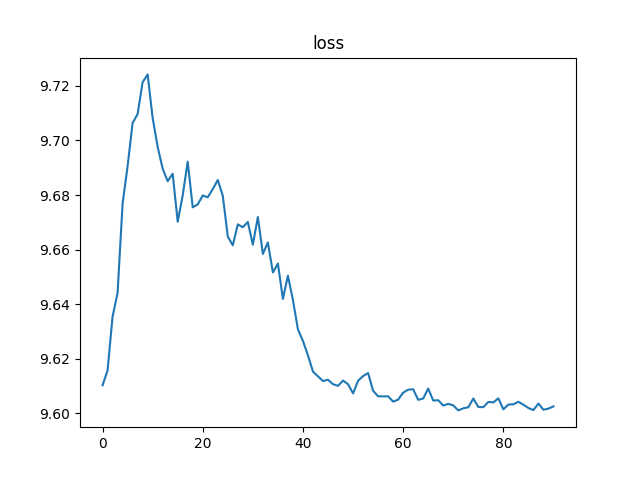
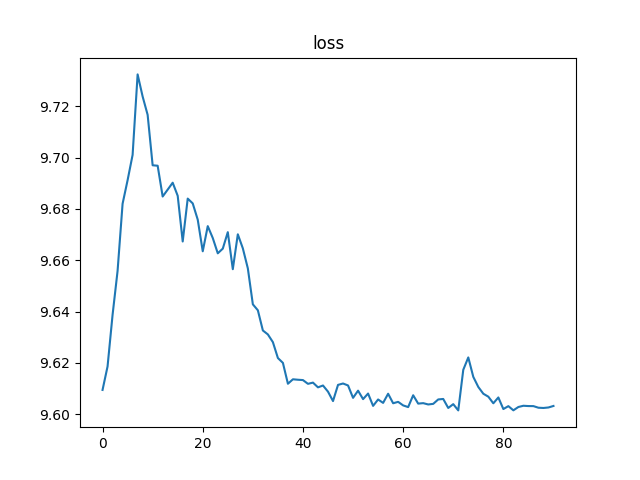
testing removed

diff --git a/runCIFAR.py b/runCIFAR.py
@@ -1,160 +1,164 @@
 #!/usr/bin/env python3
-# -*- coding: utf-8 -*-
-"""
-Created on Fri Mar  5 19:16:11 2021
+from SimCLR.Models import RingLossResNet
+from SimCLR.Loss import RingLoss
 
-@author: becca
-"""
+from tqdm import tqdm
 
 import torch
-import torchvision as tv
-from torchvision.transforms import transforms
-
-from SimCLR.Augment import TrainDataAugmentation, TuneDataAugmentation,\
-  SimCLRDataTransform, TuneDataTransform
-from SimCLR.Makers import Train, FineTune, Validate, SimCLR
-from SimCLR.Models import ResNetSimCLR
+import torch.nn as nn
+import torchvision
+import torchvision.transforms as transforms
+from torch.utils.data import  random_split
 
 import matplotlib.pyplot as plt
-from sklearn.metrics import confusion_matrix, ConfusionMatrixDisplay
+import numpy as np
+from sklearn.metrics import confusion_matrix, ConfusionMatrixDisplay, precision_recall_fscore_support
 
 
-def test_finetune():
-  # fine tuning transform
+device = 'cuda:0' if torch.cuda.is_available() else 'cpu'
+
+
+def get_data(batch_size=256):
   transform = transforms.Compose(
-    [transforms.ToTensor(), transforms.Normalize((.5,.5,.5),(.5,.5,.5))]
-  )
-  # dataset for finetuning
-  tuneset = tv.datasets.CIFAR10(
-    root='Data', train=True, download=True,
-    transform=transform
+    [
+      transforms.ToTensor(), 
+      transforms.Normalize((.5,.5,.5),(.5,.5,.5))
+    ]
   )
 
-  # make fine tuning object
-  simclr = FineTune(
-    mlp_layers=3, batch_size=10,
-    blocks_sizes=[2**i for i in [5,6,7,8]],
-    blocks_layers=[2,2,2,2]
+  trainset = torchvision.datasets.CIFAR10(
+    root='Data', train=True, download=True, transform=transform
+  )
+  trainloader = torch.utils.data.DataLoader(
+    trainset, batch_size=batch_size, shuffle=True, num_workers=2
   )
 
-  # do the fine tuning
-  data = simclr.load_data(tuneset)
-  model, losses = simclr.fine_tune(data, 'chkpt/CIFAR10-tune-test.tar', n_epochs=10)
+  testset = torchvision.datasets.CIFAR10(
+    root='Data', train=False, download=True, transform=transform
+  )
+  testloader = torch.utils.data.DataLoader(
+    testset, batch_size=batch_size, shuffle=True, num_workers=2
+  )
+
+  return trainloader, testloader
+
+
+def train(model, opt, crit, sch, trainloader, n_epochs, filename):
+
+  losses = []
+
+  with tqdm(total=len(trainloader)*n_epochs) as prog:
+    for i in range(n_epochs):
+      running_loss = 0
+      for k,(x,y) in enumerate(trainloader):
+
+        x = x.to(device)
+        y = y.to(device)
+
+        out, loss = model(x)
+        loss = crit(out,y) + loss
+
+        opt.zero_grad()
+        loss.backward()
+        opt.step()
+
+        running_loss += loss.item()
+
+        prog.set_description(f'epoch: {i} | Loss: {loss.item():.3f}')
+        prog.update()
+
+        if k % 10 == 9:
+          losses.append(running_loss/10)
+          running_loss = 0
+
+      if i > 20:
+        sch.step()
+      
+      if i % 10 == 0:
+        torch.save(
+          {
+            'model':model.state_dict(),
+            'opt': opt.state_dict(),
+            'epoch': i
+          },
+          filename
+        )
 
   return model, losses
 
 
-def trainCIFAR():
-  s = 1
-  input_shape = (96,96,3)
-  temperature = .5
-  
-  # get transform pipeline
-  transform = TrainDataAugmentation(s, input_shape)
-  augment = transform.augment()
-  
-  # load data
-  trainset = tv.datasets.CIFAR10(
-    root='Data', train=True, download=False, 
-    transform=SimCLRDataTransform(augment)
-  )
-  
-  simclr = Train()
-  data = simclr.load_data(trainset)
-  model,losses = simclr.train(data, temperature,n_epochs=1,ckpt_path='CIFAR10.tar')
-  return model, losses
 
-def validateCIFAR(modelpath):
-  s = 1
-  input_shape = (96,96,3)  
+def test(model, testloader):
   
-  # get transform pipeline
-  transform = TuneDataAugmentation(s, input_shape)
-  augment = transform.augment()
+  correct = 0
+  total = 0
+
+  actual = []
+  predicted = []
+
+  with tqdm(total=len(testloader)) as prog:
+    prog.set_description('Validating')
+    with torch.no_grad():
+      for x,y in testloader:
+        x = x.to(device)
+        y = y.to(device)
+        
+        out = model(x, rep_only=True)
+        preds = out.argmax(dim=1)
+
+        total += y.size(0)
+        correct += sum(preds == y)
+        
+        actual.extend(y.detach().cpu().tolist())
+        predicted.extend(preds.detach().cpu().tolist())
+
+
+        prog.set_description(f'Validating | accuracy: {correct/total:.3f}')
+        prog.update() 
+  print("correct", correct.item(), total)
+
+  return (correct/total).item(), actual, predicted
+
+
+
+
+if __name__ == '__main__':
   
-  # load data
-  testdata = tv.datasets.CIFAR10(root='TestData',
-                                  train=False,download=False,transform=SimCLRDataTransform(augment))
-  
-  simclr = Validate()
-  testloader = simclr.load_data(testdata)
-  accuracy =  simclr.validate_labels(modelpath,testloader)
-  return accuracy
+  trainloader, testloader = get_data()
 
-def end_to_end():
-  s=1
-  input_shape = (96,96,3)  
-
-  # set up training data
-  train_trans = TrainDataAugmentation(s, input_shape)
-  train_aug = train_trans.augment()
-
-  train_data = tv.datasets.CIFAR10(
-    root='Data', train=True, download=True, 
-    transform=SimCLRDataTransform(train_aug)
+  model = RingLossResNet(3, 10, .01, blocks_layers=[3,4,6,3]).to(device)
+  crit = nn.CrossEntropyLoss()
+  opt = torch.optim.Adam(model.parameters(), lr=1e-4)
+  sch = torch.optim.lr_scheduler.CosineAnnealingLR(
+    opt, len(trainloader)
   )
 
-  # set up tuning data
-  tune_trans = TuneDataAugmentation(s, input_shape)
-  tune_aug = tune_trans.augment()
-
-  tune_data = tv.datasets.CIFAR10(
-    root='Data', train=True, download=True, 
-    transform=TuneDataTransform(tune_aug)
+  model, losses = train(
+    model, opt, crit, sch,
+    trainloader, 100, 'chkpt/rl_test.tar'
   )
 
-  # set up val data
-  val_data = tv.datasets.CIFAR10(
-    root='Data', train=False, download=True, 
-    transform=TuneDataTransform(tune_aug)
-  )
-
-  # create the base model
-  model = ResNetSimCLR(in_channels=3, n_classes=10, mlp_layers=2)
-  simclr = SimCLR(model)
-  print(f'Our model has {simclr.trainer.num_params:,} parameters')
-
-  results = simclr.full_model_maker(
-    train_data, tune_data, val_data, n_cycles=2, train_epochs=50, tune_epochs=20,
-    train_path='chkpt/train.tar', tune_path='chkpt/tune.tar'
-  )
-
-  return results
-
-if __name__ == "__main__":
-#    model, losses = trainCIFAR()
-  # accuracy = validateCIFAR('CIFAR10.tar81')
-  model, train_loss, tune_loss, accuracy, actual, predicted = end_to_end()
-
-  plt.plot(train_loss)
-  plt.title('train loss')
-  plt.savefig('vis/train_losses.png')
+  plt.plot(losses)
+  plt.title('loss')
+  plt.savefig('vis/rl_cifar_losses.png')
   plt.clf()
 
-  plt.plot(tune_loss)
-  plt.title('tune losses')
-  plt.savefig('vis/tune_losses.png')
-  plt.clf()
-
-  plt.plot(accuracy)
-  plt.title('accuracy')
-  plt.savefig('vis/accuracy.png')
-  plt.clf()
-
+  accuracy, actual, predicted = test(model, testloader)
 
   classes = [
-    'airplanes', 'cars', 'birds', 'cats', 'deer', 'dogs', 'frogs', 
-    'horses', 'ships', 'trucks'
+    'plane', 'car', 'bird', 'cat', 'deer', 'dog',
+    'frog', 'horse', 'ship', 'truck'
   ]
 
   matrix = confusion_matrix(actual, predicted, labels=[0,1,2,3,4,5,6,7,8,9])
 
-  figure = plt.figure(figsize=(16,9))
+  figure = plt.figure(figsize=(9,9))
   ax = figure.add_subplot(111)
-
-
   disp = ConfusionMatrixDisplay(confusion_matrix=matrix, display_labels=classes)
   disp.plot(ax=ax)
-
-  plt.savefig('vis/confusion_matrix.png')
+  plt.title(f'accuracy = {accuracy}')
+  plt.savefig('vis/rl_cifar_confusion_matrix.png')
   plt.clf()
+
+
+
